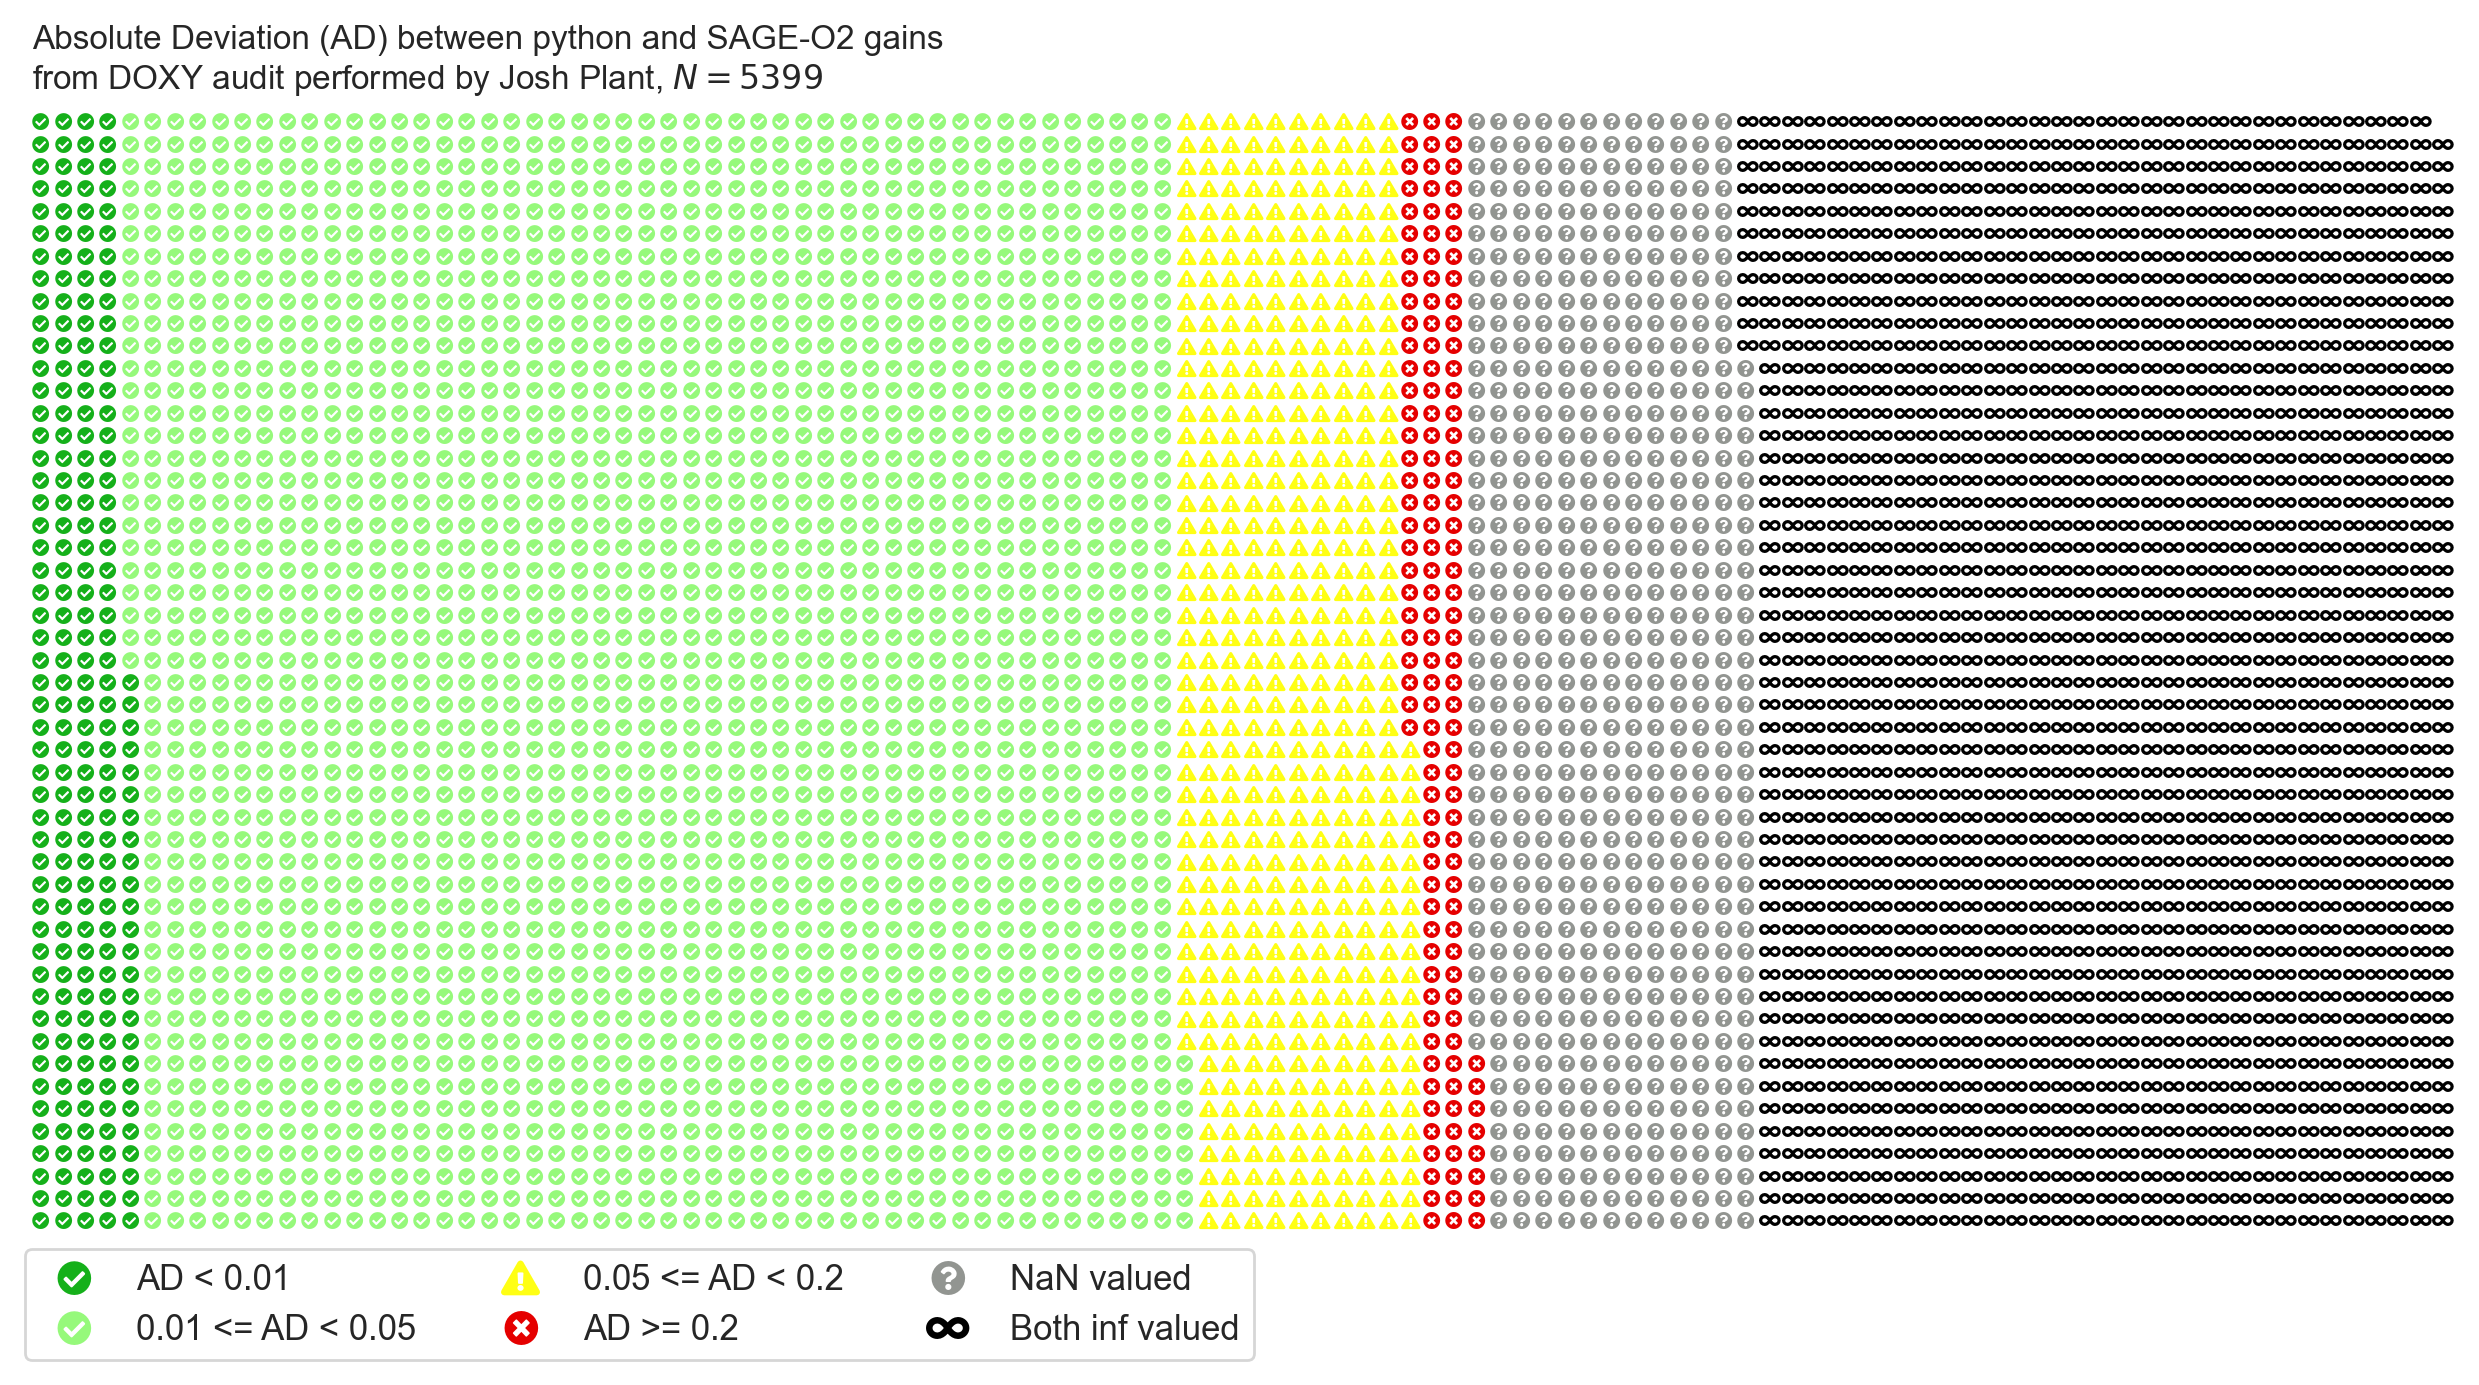
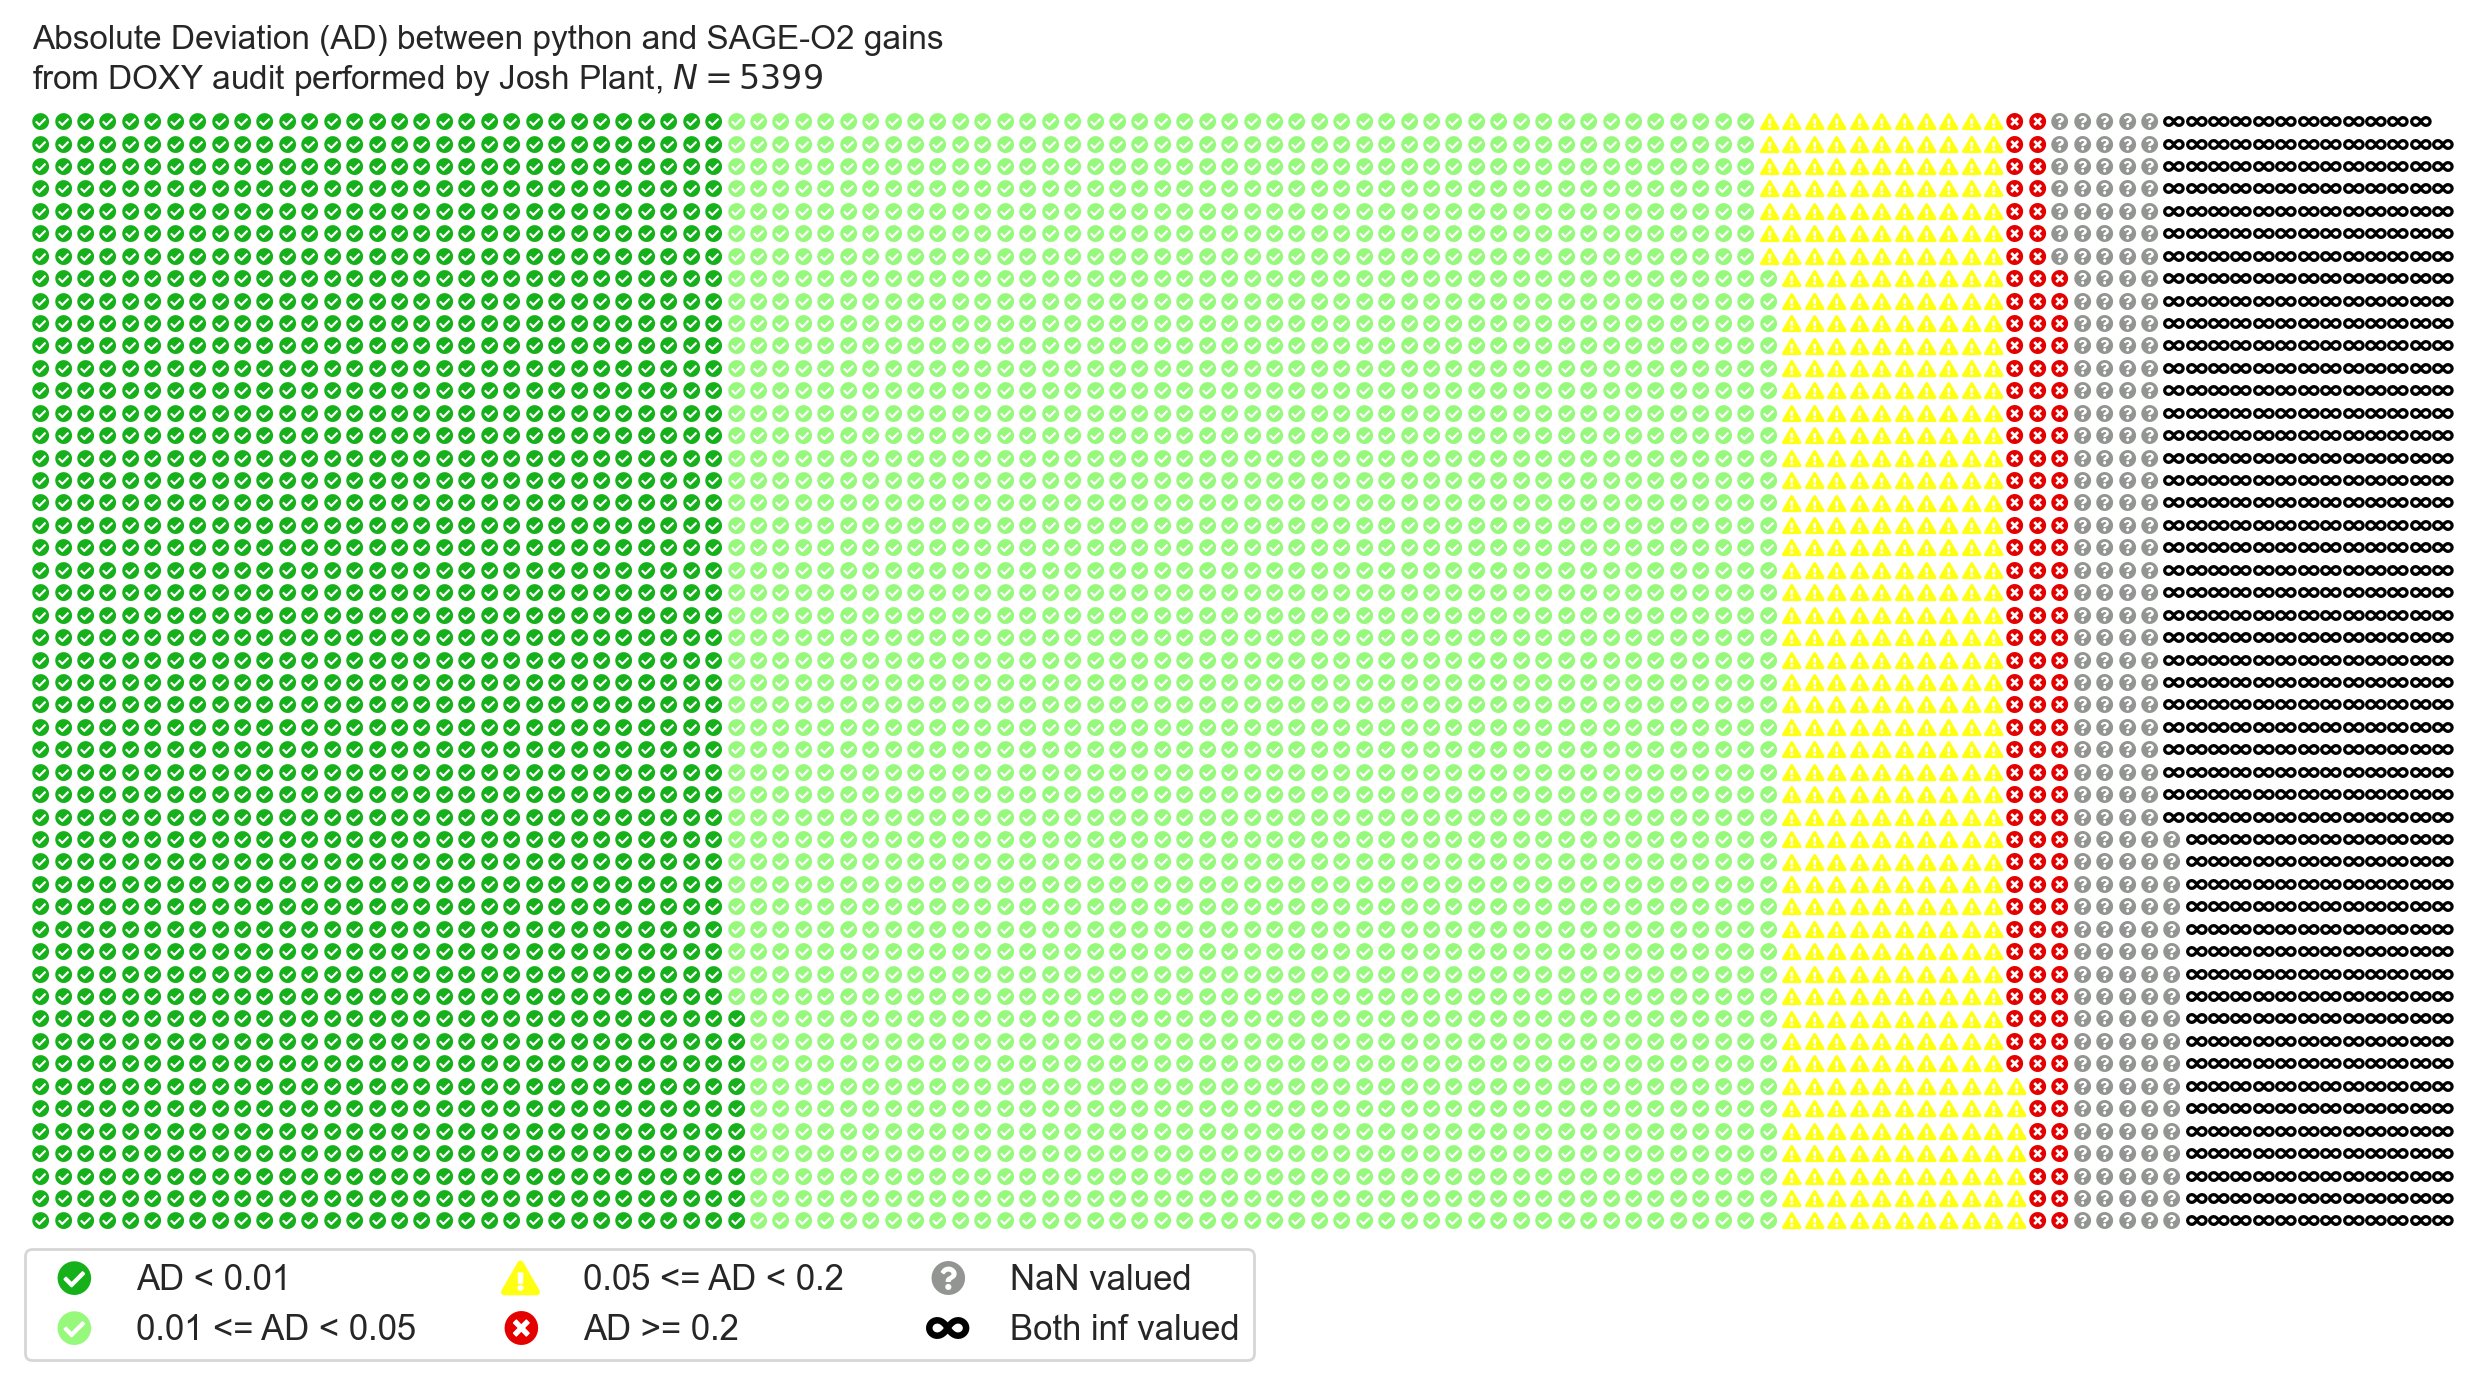
mistake in matching names to data in counts df

Changed region(s): [[0.4659, 0.0621, 0.9008, 0.9004], [0.0311, 0.0621, 0.3106, 0.9004]]

diff --git a/validation/high_level_doxy_audit_figs.py b/validation/high_level_doxy_audit_figs.py
@@ -16,13 +16,12 @@ df = pd.read_csv(fn)
 df['diffGAIN'] = np.abs(df.pyGAIN - df.sageGAIN)
 
 # make new dataframe with categories depending on absolute deviation
-counts = pd.DataFrame(dict(N=np.array([df.shape[0],
-                            np.sum(df.pyGAIN.isnull()), 
+counts = pd.DataFrame(dict(N=np.array([df.shape[0],df[df.diffGAIN < 0.01].shape[0],
                             df[np.logical_and(df.diffGAIN >= 0.01, df.diffGAIN < 0.05)].shape[0],
                             df[np.logical_and(df.diffGAIN >= 0.05, df.diffGAIN < 0.2)].shape[0],
                             df[df.diffGAIN >= 0.2].shape[0],
-                            np.sum(np.logical_and(np.isinf(df.pyGAIN), np.isinf(df.sageGAIN))),
-                            df[df.diffGAIN < 0.01].shape[0],]),
+                            np.sum(df.pyGAIN.isna()),
+                            np.sum(np.logical_and(np.isinf(df.pyGAIN), np.isinf(df.sageGAIN)))]),
                         name=np.array(['Total', 'AD < 0.01', '0.01 <= AD < 0.05',
                                         '0.05 <= AD < 0.2', 'AD >= 0.2',
                                         'NaN valued', 'Both inf valued',])))
